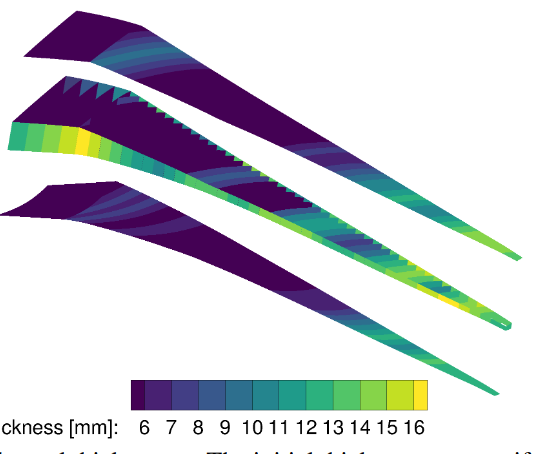
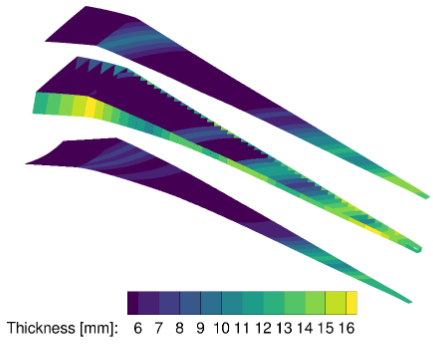
larger figs in fun3d_examples readme

Changed region(s): [[0.0, 0.0, 0.9908, 1.0], [0.9307, 0.9855, 0.9607, 1.0]]

diff --git a/examples/fun3d_examples/README.md b/examples/fun3d_examples/README.md
@@ -14,11 +14,11 @@ Engelstad, S. P., Burke, B. J., Patel, R. N., Sahu, S., and Kennedy, G. J., “H
 Differentiable CAD Geometry,” AIAA Scitech 2023 Forum, National Harbor, MD, 2023. doi:10.2514/6.2023-0329.
 ```
 <figure class="image">
-  <img src="sst_optimization/results/sst_opt_design.png" width=400 />
+  <img src="sst_optimization/results/sst_opt_design.png" width=600 />
   <figcaption><em>Optimal thicknesses for the supersonic transport wing.</em></figcaption>
 </figure>
 <figure class="image">
-  <img src="sst_optimization/results/sst_fun3d_flow.png" width=400 />
+  <img src="sst_optimization/results/sst_fun3d_flow.png" width=500 />
   <figcaption><em>Pressure contours in the Mach 2.0 flow solved in FUN3D.</em></figcaption>
 </figure>
 
@@ -29,4 +29,4 @@ Jacobson, K., Kiviaho, J., Smith, M., and Kennedy, G., “An Aeroelastic Couplin
 ysis and Optimization,” 2018 AIAA/ASCE/AHS/ASC Structures, Structural Dynamics, and Materials Conference, 2018.
 doi:10.2514/6.2018-0100.
 ```
-<img src="pyopt_togw_optimization/images/crm_thick_opt.png" width=400 />
+<img src="pyopt_togw_optimization/images/crm_thick_opt.png" width=500 />
